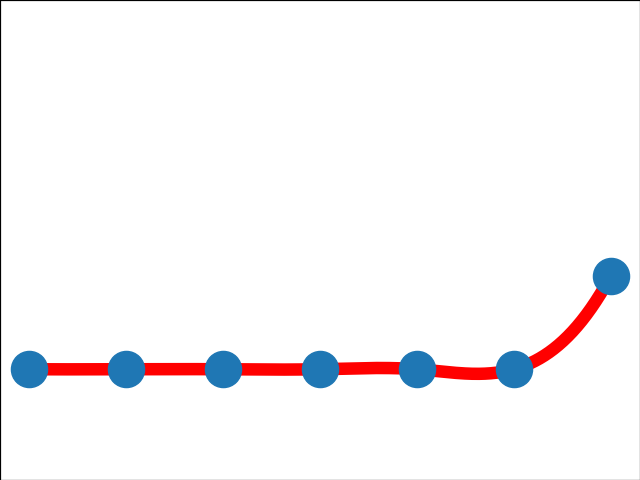
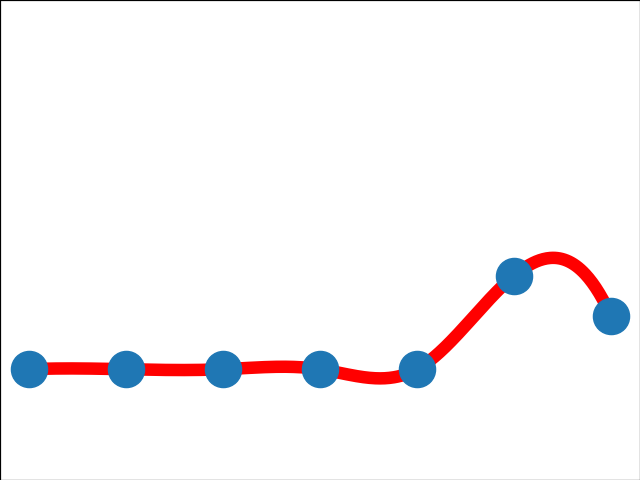
update0412

diff --git a/statics/data.html b/statics/data.html
@@ -12,56 +12,74 @@
   </thead>
   <tbody>
     <tr>
-      <td>特首</td>
-      <td><nobr>🔥</nobr><br>3.16</td>
-      <td><nobr>📈📈</nobr><br>0.34</td>
-      <td><img src="graph/特首.png" width = "100" alt="graph" /></td>
-      <td>blockbeats(04-11 17:57): <a href="https://www.theblockbeats.info/news/36373" target="_blank">香港特首李家超出席香港Web3.0协会成立典礼致辞（全文）</a><br>odaily(04-11 18:02): <a href="https://www.odaily.news/post/5186364" target="_blank">香港特首李家超：我们必须敢于成为Web3创新浪潮的引领者</a><br>foresightnews(04-11 18:04): <a href="https://foresightnews.pro/article/detail/30492" target="_blank">香港特首发言全文：Web3的发展现时正值黄金起点</a><br>marsbit(04-11 18:32): <a href="https://news.marsbit.cc/20230411183227987457.html" target="_blank">香港特首李家超发言全文：Web3的发展现时正值黄金起点</a></td>
+      <td>财政司</td>
+      <td><nobr>🔥</nobr><br>3.62</td>
+      <td><nobr>📈📈</nobr><br>0.45</td>
+      <td><img src="graph/财政司.png" width = "100" alt="graph" /></td>
+      <td>blockbeats(04-12 13:36): <a href="https://www.theblockbeats.info/news/36382" target="_blank">香港财政司司长陈茂波演讲全文：现在是Web3发展的黄金机遇，也是最惊心动魄的时刻</a><br>odaily(04-12 13:08): <a href="https://www.odaily.news/post/5186387" target="_blank">香港财政司司长陈茂波：将最大程度实现虚拟资产创新和发展</a><br>foresightnews(04-12 13:14): <a href="https://foresightnews.pro/article/detail/30536" target="_blank">香港财政司司长陈茂波发言全文：Web3大有可为，是不可逆转的未来趋势</a><br>panewslab(04-12 13:01): <a href="https://www.panewslab.com/zh/articledetails/4nc7fd6l.html" target="_blank">全文|香港财政司司长陈茂波：Web3缺乏妥善的监管框架，将最大程度实现虚拟资产创新和发展</a></td>
+      <td>to be completed</td>
+      <td>to be completed</td>
+    </tr>
+    <tr>
+      <td>a16z</td>
+      <td><nobr>🔥</nobr><br>3.62</td>
+      <td><nobr>📈📈📈</nobr><br>0.52</td>
+      <td><img src="graph/a16z.png" width = "100" alt="graph" /></td>
+      <td>blockbeats(04-12 14:50): <a href="https://www.theblockbeats.info/news/36384" target="_blank">a16z发布2023年《加密货币状况》报告：美国正在失去Web3领先优势</a><br>odaily(04-12 19:30): <a href="https://www.odaily.news/post/5186394" target="_blank">a16z：2023年加密货币状况报告的7个启示</a><br>panewslab(04-12 13:30): <a href="https://www.panewslab.com/zh/articledetails/urvatwrn.html" target="_blank">a16z：来自《2023年加密货币状况》的7个启示</a><br>marsbit(04-12 07:08): <a href="https://news.marsbit.cc/20230412070840556023.html" target="_blank">a16z：2023年加密货币状况报告</a></td>
+      <td>to be completed</td>
+      <td>to be completed</td>
+    </tr>
+    <tr>
+      <td>Arthur</td>
+      <td><nobr>🔥</nobr><br>3.62</td>
+      <td><nobr>📈📈📈</nobr><br>0.53</td>
+      <td><img src="graph/Arthur.png" width = "100" alt="graph" /></td>
+      <td>blockbeats(04-12 14:17): <a href="https://www.theblockbeats.info/news/36383" target="_blank">ArthurHayes：囤了那么久的LDO，我为何全部亏本抛售？</a><br>panewslab(04-12 15:38): <a href="https://www.panewslab.com/zh/articledetails/tmv90hp21y0c.html" target="_blank">ArthurHayes：囤了那么久的$LDO，我为何全部亏本抛售？</a><br>marsbit(04-12 10:56): <a href="https://news.marsbit.cc/20230412104341917352.html" target="_blank">ArthurHayes：Shapella的“表演秀”</a></td>
       <td>to be completed</td>
       <td>to be completed</td>
     </tr>
     <tr>
       <td>中心化</td>
-      <td><nobr>🔥</nobr><br>2.53</td>
-      <td><nobr>📉📉📉</nobr><br>-0.55</td>
+      <td><nobr>🔥</nobr><br>2.9</td>
+      <td><nobr>📉📉</nobr><br>-0.41</td>
       <td><img src="graph/中心化.png" width = "100" alt="graph" /></td>
-      <td>foresightnews(04-11 15:50): <a href="https://foresightnews.pro/article/detail/30473" target="_blank">Rollup排序器的去中心化探索：Espresso、SUAVE与Polygon等</a><br>panewslab(04-11 11:00): <a href="https://www.panewslab.com/zh/articledetails/c5bzquax.html" target="_blank">搭建在比特币主网上的去中心化域名系统——BTCDomain</a><br>marsbit(04-11 09:42): <a href="https://news.marsbit.cc/20230411094201795107.html" target="_blank">长推：去中心化交易所的最新发展和未来</a></td>
+      <td>blockbeats(04-12 10:28): <a href="https://www.theblockbeats.info/news/36378" target="_blank">DatamallChain：基于博弈共识模型的去中心化存储平台</a><br>foresightnews(04-12 13:10): <a href="https://foresightnews.pro/article/detail/30534" target="_blank">OKX总裁「Web3嘉年华」演讲：构建未来之路，从中心化信任体系到去中心化信任体系</a><br>panewslab(04-12 09:11): <a href="https://www.panewslab.com/zh/articledetails/pylr0ff1.html" target="_blank">解读5大去中心化排序器项目：EspressoSequencer、SUAVE、PolygonPoE、EigenLayer和CosmosICS</a><br>marsbit(04-12 15:37): <a href="https://news.marsbit.cc/20230412153719960522.html" target="_blank">去中心化排序器：下一步该何去何从？</a></td>
       <td>to be completed</td>
       <td>to be completed</td>
     </tr>
     <tr>
-      <td>Web3.0</td>
-      <td><nobr>🔥</nobr><br>2.53</td>
-      <td><nobr>📈</nobr><br>0.27</td>
-      <td><img src="graph/Web3.0.png" width = "100" alt="graph" /></td>
-      <td>blockbeats(04-11 19:12): <a href="https://www.theblockbeats.info/news/36377" target="_blank">香港Web3.0协会理事会成员都有哪些重要人物？</a><br>blockbeats(04-11 19:08): <a href="https://www.theblockbeats.info/news/36376" target="_blank">重磅公布｜香港Web3.0协会成员委任名单全览</a><br>marsbit(04-11 21:13): <a href="https://news.marsbit.cc/20230411211335934407.html" target="_blank">香港Web3.0协会成员委任名单全览</a></td>
+      <td>启幕</td>
+      <td><nobr>🔥</nobr><br>2.17</td>
+      <td><nobr>📈</nobr><br>0.23</td>
+      <td><img src="graph/启幕.png" width = "100" alt="graph" /></td>
+      <td>odaily(04-12 14:43): <a href="https://www.odaily.news/post/5186390" target="_blank">2023香港Web3嘉年华盛大启幕：汇聚行业精英，开启香港金融科技新纪元</a><br>foresightnews(04-12 14:40): <a href="https://foresightnews.pro/article/detail/30544" target="_blank">2023香港Web3嘉年华盛大启幕！汇聚行业精英，开启香港金融科技新纪元</a></td>
       <td>to be completed</td>
       <td>to be completed</td>
     </tr>
     <tr>
-      <td>Galaxy</td>
-      <td><nobr>🔥</nobr><br>2.53</td>
-      <td><nobr>📈</nobr><br>0.27</td>
-      <td><img src="graph/Galaxy.png" width = "100" alt="graph" /></td>
-      <td>odaily(04-11 14:45): <a href="https://www.odaily.news/post/5186361" target="_blank">GalaxyQ1投融资研报：VC筹资遇冷，投资仅24亿美元延续下降趋势</a></td>
+      <td>NFT</td>
+      <td><nobr>🔥</nobr><br>2.17</td>
+      <td><nobr>📉</nobr><br>-0.24</td>
+      <td><img src="graph/NFT.png" width = "100" alt="graph" /></td>
+      <td>panewslab(04-12 17:11): <a href="https://www.panewslab.com/zh/articledetails/1jso7ibv.html" target="_blank">数据解析NFTQ1市场表现：NFT生态正向Polygon聚拢，蓝筹项目"保值"难</a><br>marsbit(04-12 17:46): <a href="https://news.marsbit.cc/20230412174620093621.html" target="_blank">王峰：NFT平台需要标识性的NFT，Web3创业与Web2大相径庭</a></td>
       <td>to be completed</td>
       <td>to be completed</td>
     </tr>
     <tr>
-      <td>Twitter</td>
-      <td><nobr>🔥</nobr><br>1.9</td>
-      <td><nobr>📈</nobr><br>0.29</td>
-      <td><img src="graph/Twitter.png" width = "100" alt="graph" /></td>
-      <td>foresightnews(04-11 15:29): <a href="https://foresightnews.pro/article/detail/30475" target="_blank">TwitterSpace｜一次聊透以太坊上海升级！是否存在大量抛压？会带来哪些机会？</a></td>
+      <td>HashKey</td>
+      <td><nobr>🔥</nobr><br>2.17</td>
+      <td><nobr>📈</nobr><br>0.23</td>
+      <td><img src="graph/HashKey.png" width = "100" alt="graph" /></td>
+      <td>foresightnews(04-12 18:19): <a href="https://foresightnews.pro/article/detail/30564" target="_blank">HashKeyGroup将发布生态积分，一文读懂HSK的权益和分配机制</a></td>
       <td>to be completed</td>
       <td>to be completed</td>
     </tr>
     <tr>
-      <td>DeFi</td>
-      <td><nobr>🔥</nobr><br>1.9</td>
-      <td><nobr>📈</nobr><br>0.2</td>
-      <td><img src="graph/DeFi.png" width = "100" alt="graph" /></td>
-      <td>foresightnews(04-11 14:05): <a href="https://foresightnews.pro/article/detail/30470" target="_blank">DeFivsCeFi：对抗与融合｜「FORESIGHT2023」峰会实录</a><br>panewslab(04-11 19:00): <a href="https://www.panewslab.com/zh/articledetails/7ia9dx67.html" target="_blank">以太坊上海升级，DeFi3.0的序章</a></td>
+      <td>Bixin</td>
+      <td><nobr>🔥</nobr><br>2.17</td>
+      <td><nobr>📈</nobr><br>0.23</td>
+      <td><img src="graph/Bixin.png" width = "100" alt="graph" /></td>
+      <td>blockbeats(04-12 12:03): <a href="https://www.theblockbeats.info/news/36379" target="_blank">BixinVentures：以太坊Shapella升级可以给我们带来哪些期待？</a></td>
       <td>to be completed</td>
       <td>to be completed</td>
     </tr>
